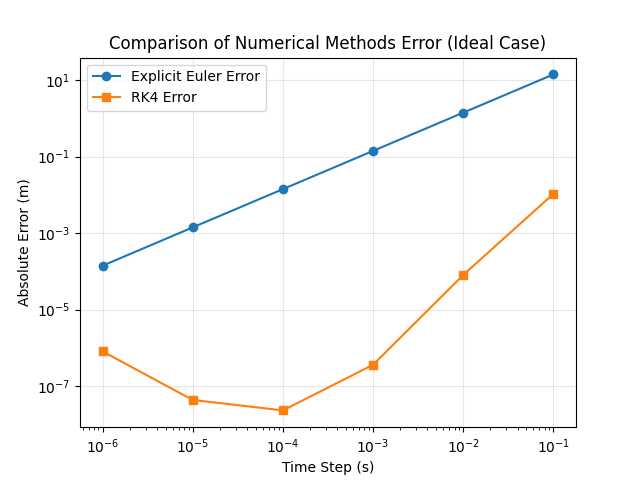
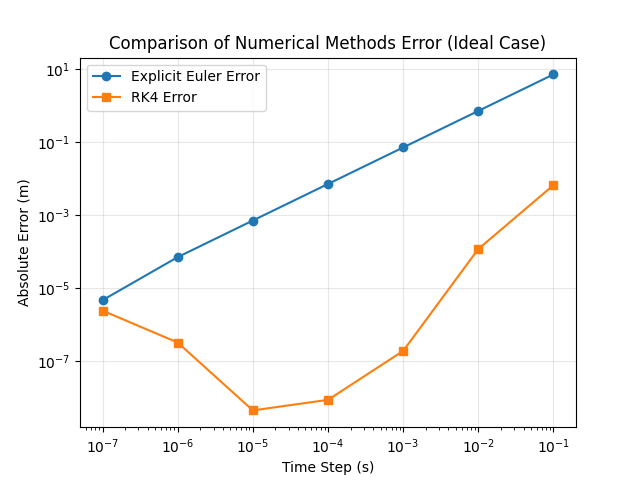
Added one last optimization to the cannon simulator
Now the program is compiling the whole propagation for better speed.

Also using the most precise time step instead of the lowest for the air resistance simulation

diff --git a/Lab4/cannon_sim.py b/Lab4/cannon_sim.py
@@ -19,8 +19,8 @@ air_resistance = 0.47
 
 # initial values
 theta = math.pi / 4 # rad
-v_0 = 200 # m/s
 time_intervals = np.power(10.0, np.arange(-6, 0))
+v_0 = 100 # m/s
 
 x_0 = 0.0 # m
 
@@ -29,6 +29,7 @@ projectile_volume = 4 / 3 * math.pi * r ** 3 / 1e6 # m^3
 projectile_area = math.pi * r ** 2 / 10000 # m^2
 projectile_mass = projectile_volume * projectile_density * 1000 # kg
 
+# pre-computed constants forces
 g_force = projectile_mass * g
 drag_coefficient = 0.5 * air_density * air_resistance * projectile_area
 # --------------------------------------------------------
@@ -74,40 +75,47 @@ def runge_kutta(position, velocity, time, mass, f, dt):
 
     return position, velocity, time
 
+@jit(nopython=True)
+def propagate(position, velocity, time, delta_t, mass, force, method):
+    while(True):
+            prev_x, prev_y = position[0], position[1]
+            position, velocity, time = method(position, velocity, time, mass, force, delta_t)
+
+            if position[1] <= 0: 
+                # interpolate the function to zero
+                position[0] = (position[1] * prev_x - prev_y * position[0]) / (position[1] - prev_y) - x_0
+                position[1] = 0.0
+
+                print(position)
+                return position
+
 def main():
+    # Estimate maximum iterations needed for pre-allocation:
+    # - Theoretical flight time (ideal case): 2*v*sin(θ)/g (It should be less with air resistance)
+    # - Add buffer for margin
+    estimated_flight_time = 2 * v_0 * math.sin(theta) / g
+
     # Ideal study (no friction)
     # Compute range with different time steps
     computed_range_euler = []
     computed_range_rk4 = []
 
     for delta_t in time_intervals:
+        max_iterations = int(estimated_flight_time / delta_t) + 1000
+
         # Explicit Euler method
         position = np.array([x_0, 0.0])
         velocity = np.array([v_0 * math.cos(theta), v_0 * math.sin(theta)])
         time = 0.0
-
-        while(True):
-            prev_x, prev_y = position[0], position[1]
-            position, velocity, time = explicit_euler(position, velocity, time, projectile_mass, f_ideal, delta_t)
-
-            if position[1] <= 0: 
-                # interpolate the function to zero
-                computed_range_euler.append((position[1] * prev_x - prev_y * position[0]) / (position[1] - prev_y) - x_0)
-                break
+        final_position = propagate(position, velocity, time, delta_t, projectile_mass, f_ideal, explicit_euler)
+        computed_range_euler.append(final_position[0])
 
         # RK4 method
         position = np.array([x_0, 0.0])
         velocity = np.array([v_0 * math.cos(theta), v_0 * math.sin(theta)])
         time = 0.0
-
-        while(True):
-            prev_x, prev_y = position[0], position[1]
-            position, velocity, time = runge_kutta(position, velocity, time, projectile_mass, f_ideal, delta_t)
-
-            if position[1] <= 0: 
-                # interpolate the function to zero
-                computed_range_rk4.append((position[1] * prev_x - prev_y * position[0]) / (position[1] - prev_y) - x_0)
-                break
+        final_position = propagate(position, velocity, time, delta_t, projectile_mass, f_ideal, runge_kutta)
+        computed_range_rk4.append(final_position[0])
 
     ideal_range = 2 * v_0 ** 2 / g * math.sin(theta) * math.cos(theta)
     print('Ideal range: ', ideal_range, 'm')
@@ -128,17 +136,13 @@ def main():
 
     # --------------------------------------------------------
     # Realistic study (with air resistance)
-    
-    # Estimate maximum iterations needed for pre-allocation:
-    # - Theoretical flight time (ideal case): 2*v*sin(θ)/g (It should be less with air resistance)
-    # - Add buffer for margin
-    estimated_flight_time = 2 * v_0 * math.sin(theta) / g
-    max_iterations = int(estimated_flight_time / time_intervals[0]) + 1000
-    
+    dt = 1e-4  # time step for simulation
+    max_iterations = int(estimated_flight_time / dt) + 1000
+
     # Pre-allocate trajectory array
     position = np.zeros((max_iterations, 2))
     position[0] = [x_0, 0.0]
-    
+
     velocity = np.array([v_0 * math.cos(theta), v_0 * math.sin(theta)])
     time = 0.0
     idx = 0
@@ -147,7 +151,7 @@ def main():
         idx += 1
         
         # RK4 
-        rkposition, velocity, time = runge_kutta(position[idx-1], velocity, time, projectile_mass, f_drag, time_intervals[0])
+        rkposition, velocity, time = runge_kutta(position[idx-1], velocity, time, projectile_mass, f_drag, dt)
         position[idx] = rkposition
 
         if rkposition[1] <= 0:
